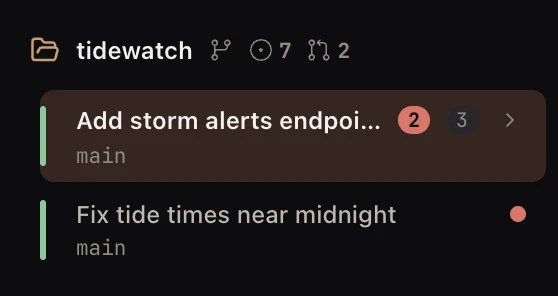
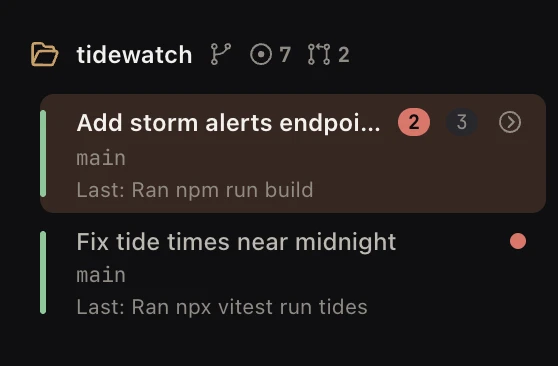
docs(site): session rows say what the agent did last, pick a page part into the session, and agent-error tabs stay (#1278)
* docs(site): session rows say what the agent did last, pick a page element into the session, tabs stay after an agent quits with an error

* docs(site): a run or tab that dies before its session starts is named apart

* docs(site): retake the sidebar and web tab screenshots

* docs(site): the last-step line shows once the agent took a step; a remote pick picture goes on the next pick

* docs(site): fix what the reviews found: History after an agent error, picture only when taken, plainer wording

* docs(site): a scheduled job's tab closes when its agent quits with an error

* docs(site): drop the tab claims a scheduled run's restart history makes unsure

diff --git a/site/sessions/index.html b/site/sessions/index.html
@@ -81,13 +81,13 @@
       <main>
         <h1 class="title">Folders and their sessions</h1>
 
-        <figure class="shot is-narrow" style="--ar: 558 / 800">
+        <figure class="shot is-narrow" style="--ar: 558 / 870">
           <div class="frame">
             <img
               src="../img/a-sidebar.webp"
               width="558"
-              height="800"
-              alt="Two folders in the sidebar: the folder tidewatch with a branch sign, 2 behind, 7 open issues and 2 open pull requests, five sessions under it with their branch names, two of them with a red dot; below it the folder harbor-site with one session"
+              height="870"
+              alt="Two folders in the sidebar: the folder tidewatch with a branch sign, 2 behind, 7 open issues and 2 open pull requests, five sessions under it with their branch names; the three open ones also say what their agent did last, like Last: Ran npm run build, and two of them have a red dot; below it the folder harbor-site with one session"
             />
           </div>
           <figcaption>
@@ -145,6 +145,15 @@
             that were running run again, with the one you were on selected; the ones that were
             asleep stay asleep until you click them; the closed ones stay closed.
           </li>
+          <li id="quit">
+            If the agent quits on its own with an error (it crashes, is killed, or fails to start),
+            its tab stays open with its last screen. The branch line under the row's title ends with
+            <code>· exited (code N)</code> or <code>· killed (signal N)</code>, and the row's tip
+            reads <code>Click to see its last screen · ⇧⌘R starts it again · ⌘W closes it</code>. If
+            it quits cleanly, as when you type <code>/exit</code>, the tab closes. All four agents
+            do this, on your Mac and on a <a href="../remote/">remote folder</a>. A tab that a
+            <a href="../scheduled/">scheduled job</a> opened may close instead.
+          </li>
         </ul>
         <p>Every row has a light on its left. The colour says what the session is doing.</p>
         <div class="typed-table" id="lights">
@@ -186,6 +195,26 @@
             </tbody>
           </table>
         </div>
+        <p id="last-step">
+          An open row can have one more short line under it, about what the agent is doing:
+        </p>
+        <ul class="dash">
+          <li>
+            while it works: the last step it took, like <code>Ran npm test</code> or
+            <code>Edited api.ts</code>
+          </li>
+          <li>
+            while it waits for your OK: what it asks, like
+            <code>Wants to run: rm -rf build</code> or <code>Asks: …</code> (if Koloft cannot tell,
+            <code>Last:</code> and its last step)
+          </li>
+          <li>once its turn is done: the last step, with <code>Last:</code> in front</li>
+          <li>when a Codex plan is ready: <code>Plan ready: implement it?</code></li>
+        </ul>
+        <p>
+          Before the agent has done or asked anything, there is no such line. Claude, Codex, Muse
+          and Antigravity all do this, on your Mac and on a <a href="../remote/">remote folder</a>.
+        </p>
 
         <h2 id="red-dots">Red dots</h2>
         <ul class="dash">
@@ -223,12 +252,12 @@
         </ul>
 
         <h2 id="keep-running">Keep running</h2>
-        <figure class="shot is-narrow" style="--ar: 554 / 578">
+        <figure class="shot is-narrow" style="--ar: 558 / 668">
           <div class="frame">
             <img
               src="../img/p-keep-running.webp"
-              width="554"
-              height="578"
+              width="558"
+              height="668"
               loading="lazy"
               alt="The tidewatch sessions; the row Fix tide times near midnight has a small pin before its name"
             />
@@ -430,12 +459,12 @@
           thin line down its left. A session that one of those starts hangs one level deeper. The
           row is there from the moment it reads Starting….
         </p>
-        <figure class="shot is-narrow" style="--ar: 558 / 578">
+        <figure class="shot is-narrow" style="--ar: 558 / 722">
           <div class="frame">
             <img
               src="../img/v-session-tree.webp"
               width="558"
-              height="578"
+              height="722"
               loading="lazy"
               alt="The folder tidewatch: the session Add storm alerts endpoint with two sessions set in under it, Update the API docs and Write the storm alert tests, and under the second of those, one level deeper, Check the test fixtures; below them all, Fix tide times near midnight on its own"
             />
@@ -448,12 +477,12 @@
           <a href="#red-dots">folded folder</a> does, and a grey count of all the hidden ones. Click
           the arrow again to see them.
         </p>
-        <figure class="shot is-narrow" style="--ar: 558 / 296">
+        <figure class="shot is-narrow" style="--ar: 558 / 366">
           <div class="frame">
             <img
               src="../img/v-session-tree-folded.webp"
               width="558"
-              height="296"
+              height="366"
               loading="lazy"
               alt="The same folder with Add storm alerts endpoint folded: a red 2 and a grey 3 at the right of its name, and the arrow now points right"
             />
@@ -512,7 +541,8 @@
           <li>
             New session <kbd>⌘N</kbd> — or, with more than one agent installed and on in Settings ▸
             Sessions, one line per agent (New Claude session, New Codex session, …), the default one
-            first with <kbd>⌘N</kbd>
+            first with <kbd>⌘N</kbd>. An agent with no account Koloft can use is greyed out there
+            (see <a href="../accounts/#no-account">accounts</a>).
           </li>
           <li>New worktree session… <kbd>⇧⌘N</kbd> <span class="why">(in a git folder)</span></li>
           <li>
@@ -526,12 +556,12 @@
         </ul>
 
         <h2>Right-click a session</h2>
-        <figure class="shot" style="--ar: 912 / 290; --w: min(456px, 100cqw)">
+        <figure class="shot" style="--ar: 916 / 444; --w: min(458px, 100cqw)">
           <div class="frame">
             <img
               src="../img/p-keep-running-menu2.webp"
-              width="912"
-              height="290"
+              width="916"
+              height="444"
               loading="lazy"
               alt="The row Add storm alerts endpoint with its right-click menu open: Reveal in Finder, Copy session ID, Keep running, Close"
             />
@@ -549,6 +579,13 @@
           <li>
             Close <span class="why">(on a running row)</span>, or Remove from list
             <span class="why">(on a closed row)</span>
+          </li>
+          <li>
+            Start again <kbd>⇧⌘R</kbd> and Close <kbd>⌘W</kbd>
+            <span class="why"
+              >(on a row whose agent <a href="#quit">quit on its own</a>, the menu has only these
+              two)</span
+            >
           </li>
         </ul>
 

diff --git a/site/accounts/index.html b/site/accounts/index.html
@@ -200,10 +200,13 @@
             <code>Account usage</code> panel: one part per tool, each with its accounts; Claude,
             Codex and Muse get a Pool row with two or more accounts
           </li>
-          <li>
+          <li id="no-account">
             with no account that can be used, the New session button is greyed out, and a line under
-            it says why (the same for Codex); a scheduled job does not start either. The line is one
-            of:
+            it says why (the same for Codex, Muse and Antigravity). That agent's New session in a
+            folder's right-click menu is greyed out too, and a scheduled job does not start either.
+            Resuming or restarting (<kbd>⇧⌘R</kbd>) a session of that agent shows the same words in
+            a short message, and a session that is already running keeps running. For Claude the
+            line is one of:
             <ul class="dash">
               <li>
                 <code>No Claude account yet — add one in Settings ▸ Accounts.</code> when none is
@@ -406,11 +409,14 @@
             note's title and on Discord. Other sessions still reach it by every name it has had.
           </li>
           <li>
-            When the session tab you are looking at goes away (you close it, it exits, or it
-            crashes), Koloft shows your butler, opening it if it was not open, once the butler is
-            set up. Closing the butler's own tab does not open it again; Koloft shows the newest
-            open tab. A new session that ends before it ever started (you answer "No, exit" to its
-            trust question, say) leaves you on its folder's page, or on the newest open tab.
+            When the session tab you are looking at goes away (you close it, or its agent quits
+            cleanly), Koloft shows your butler, opening it if it was not open, once the butler is
+            set up. A tab whose agent quits with an error can stay open (see
+            <a href="../sessions/#quit">sessions</a>). When you close it, Koloft shows your butler,
+            as long as that session had started. Closing the butler's own tab does not open it
+            again; Koloft shows the newest open tab. A new session whose agent quits cleanly before
+            the session ever started (you answer "No, exit" to Antigravity's trust question, say)
+            leaves you on its folder's page, or on the newest open tab.
           </li>
           <li>
             Like any session it goes to sleep after a quiet half hour, unless it has a Discord
@@ -497,12 +503,20 @@
           <code>answer</code> and <code>keys</code>:
         </p>
         <ul class="dash">
-          <li>Claude on your Mac gets a message at once, through its own message socket.</li>
-          <li>Codex, here or on another machine, gets it in line, when Codex is ready.</li>
-          <li>Muse and Antigravity get it typed in once their turn is over.</li>
           <li>
-            A Claude session on another machine gets it typed in once its turn has ended; the butler
-            is told it will be delivered then.
+            Claude, here or on another machine, gets a message at once, through its own message
+            socket.
+          </li>
+          <li>Codex, here or on another machine, gets it in line, when Codex is ready.</li>
+          <li>
+            Antigravity, here or on another machine, gets it through its own API (the door other
+            programs use to talk to it). A message sent while it is working waits until its turn
+            ends. If the API does not take it, Koloft types it in once the turn is over.
+          </li>
+          <li>Muse gets it typed in once its turn is over.</li>
+          <li>
+            While a Muse or Antigravity session is busy, the butler is told the message will arrive
+            when that session is ready.
           </li>
         </ul>
 

diff --git a/site/scheduled/index.html b/site/scheduled/index.html
@@ -195,11 +195,12 @@
               <tr>
                 <td>After each run…</td>
                 <td>
-                  Pick a wait, in minutes or hours. The wait starts when the last run's tab is gone
-                  (it closed itself, you closed it, or it could not start); then the next run
-                  starts. While a run is open, nothing new starts, Run now included. Saving the job
-                  or turning it on starts the wait again. It is never missed: if the wait ran out
-                  while Koloft was closed or asleep, the run starts as soon as Koloft is back.
+                  Pick a wait, in minutes or hours. The wait starts when the last run is over (it
+                  closed itself, you closed it, it could not start, or its agent quit with an
+                  error); then the next run starts. While a run is open, nothing new starts, Run now
+                  included. Saving the job or turning it on starts the wait again. It is never
+                  missed: if the wait ran out while Koloft was closed or asleep, the run starts as
+                  soon as Koloft is back.
                 </td>
               </tr>
             </tbody>
@@ -208,9 +209,11 @@
         <p>
           Picking After each run… sets When done to Close it, so each run makes room for the next by
           itself. The list says <code>waits for the open run to end</code> while a run is open. In a
-          <a href="../remote/">remote folder</a>, a run's tab can stay after the agent there stops:
-          while the link is down it keeps trying to reconnect, and after an error it waits for you
-          to press Enter. The wait starts only once that tab is gone.
+          <a href="../remote/">remote folder</a>, while the link is down a run's tab keeps trying to
+          reconnect, and the run stays open. If the agent quits with an error after the run has
+          started, the run is over at once: the wait starts, and History says
+          <code>Closed by you</code>. If the agent quits before the run starts, History says
+          <code>Could not start</code>.
         </p>
 
         <h2>Where it runs</h2>
@@ -320,6 +323,17 @@
                 <td>The run finished and is still open in the sidebar.</td>
               </tr>
               <tr>
+                <td>Done — closing</td>
+                <td>The run finished, and Close it is cleaning it up right now.</td>
+              </tr>
+              <tr>
+                <td>Done — still finishing</td>
+                <td>
+                  The run's turn is over, but work it started still runs in the background. Close it
+                  cleans up once that work is over; Koloft looks again every minute.
+                </td>
+              </tr>
+              <tr>
                 <td>Done — closed itself</td>
                 <td>The run finished and Close it cleaned it up.</td>
               </tr>
@@ -333,7 +347,8 @@
               <tr>
                 <td>Closed by you</td>
                 <td>
-                  You closed the run yourself. The line then ends with
+                  You closed the run yourself, or its agent quit with an error after the run
+                  started. The line then ends with
                   <code>· folder removed</code>, or <code>· folder kept: …</code> and what is left
                   in it.
                 </td>

diff --git a/site/workbench/index.html b/site/workbench/index.html
@@ -266,7 +266,7 @@
                 width="1322"
                 height="792"
                 loading="lazy"
-                alt="A web tab in the Workbench showing a local API docs page at localhost:4173, with an address bar and back, forward and reload buttons"
+                alt="A web tab in the Workbench showing a local API docs page at localhost:4173, with an address bar, back, forward and reload buttons, and the button that picks a part of the page"
               />
             </picture>
           </div>
@@ -276,6 +276,40 @@
             >
           </figcaption>
         </figure>
+
+        <h3 id="pick">Point the agent at one part of a page</h3>
+        <p>
+          To the right of the address field is a button. Its tip reads
+          <code>Pick an element and paste it into the session</code>. Click it and move the mouse
+          over the page: the part under the mouse lights up. Click that part (the click does not
+          reach the page). Koloft puts this in the session's input box, without sending it:
+        </p>
+        <ul class="dash">
+          <li>a first line, <code>Element picked in the Workbench browser</code></li>
+          <li>
+            the page's address and title, and the frame's address if the part sits in a frame (a
+            page inside the page)
+          </li>
+          <li>the part's name, like <code>button#buy.primary</code>, its size and where it sits</li>
+          <li>the path of a picture of it (a PNG file), when Koloft can take one</li>
+          <li>
+            its HTML, cut after 4,000 characters, and its CSS as the page really drew it: size,
+            margins, colours, font and the like
+          </li>
+        </ul>
+        <p>
+          Add what you want done and press <kbd>⏎</kbd>; your cursor is already back in the
+          terminal. To stop picking without pasting anything, press <kbd>Esc</kbd>, click the button
+          again, or click anywhere else in Koloft; picking also stops if the page goes to a new
+          address. While the session waits for your OK, has ended, or the page is not showing, the
+          button is greyed and its tip says why.
+        </p>
+        <p>
+          Every agent gets the same paste. On a <a href="../remote/">remote folder</a>, the picture
+          is copied to that machine, into <code>~/.koloft/element-picks</code>, and the paste names
+          that path. Koloft deletes each picture after about a day. On a remote machine, it deletes
+          old pictures the next time it saves a new one there.
+        </p>
 
         <h2>Terminal tabs</h2>
         <p>

diff --git a/site/features/index.html b/site/features/index.html
@@ -64,7 +64,7 @@
         <div class="kicker">Features</div>
         <h1>Everything Koloft does, <em>and where it works.</em></h1>
         <p>
-          32 features, grouped by what you are doing. Where it matters, a card says whether it works
+          33 features, grouped by what you are doing. Where it matters, a card says whether it works
           with Claude Code and Codex on your Mac, and in a remote folder over SSH. Koloft also runs
           Meta's Muse Code and Google's Antigravity CLI; the
           <a href="../sessions/">docs pages</a> say what each does for them.
@@ -220,7 +220,8 @@
             </div>
             <p>
               Breathing orange: working. Amber: waiting for your OK. Green: its turn is done. A red
-              dot means it is your move, and stays until the session works again.
+              dot means it is your move, and stays until the session works again. In the sidebar, a
+              short line under an open row says what it did last, or what it asks.
             </p>
             <ul class="kinds">
               <li class="yes">✓ Claude Code</li>
@@ -443,6 +444,25 @@
               as its source, not as a page.
             </p>
             <a class="more" href="../workbench/#web-tabs"
+              >Read more <svg class="icon" aria-hidden="true"><use href="../icons.svg#arrow" /></svg
+            ></a>
+          </article>
+          <article class="fcard">
+            <div class="ftop">
+              <svg class="icon" aria-hidden="true"><use href="../icons.svg#browser" /></svg>
+              <h3>Point at one part of a page</h3>
+            </div>
+            <p>
+              In a web tab, click the pick button, then any part of the page: its HTML, its CSS and
+              a picture of it land in the session’s input box for you to add to and send.
+            </p>
+            <ul class="kinds">
+              <li class="yes">✓ Claude Code</li>
+              <li class="yes">✓ Codex</li>
+              <li class="yes">✓ Remote</li>
+            </ul>
+
+            <a class="more" href="../workbench/#pick"
               >Read more <svg class="icon" aria-hidden="true"><use href="../icons.svg#arrow" /></svg
             ></a>
           </article>

diff --git a/site/discord/index.html b/site/discord/index.html
@@ -262,8 +262,8 @@ your Mac
           Sessions in your folders do not post to Discord. When your butler hands a session work,
           Koloft hands the session's reply back to the butler once its turn ends, and the butler
           tells you. A question from a session in one of your folders shows only at the Mac: ask
-          your butler what it is waiting on, and tell it what to pick. It reads the session's screen
-          and answers, or presses the keys, as you would at the Mac. See
+          your butler what it is waiting on, and tell it what to pick or what to say. It reads the
+          session's screen and answers, or presses the keys, as you would at the Mac. See
           <a href="../accounts/#what-it-can-do">what your butler can do</a>.
         </p>
         <p>

diff --git a/site/agents/index.html b/site/agents/index.html
@@ -213,7 +213,8 @@
           <li>
             <code>koloft session screen</code>, <code>koloft session keys</code> and
             <code>koloft session answer</code> — see what an open session's terminal shows, press
-            keys in it as you would at the Mac, or answer the question it is showing
+            keys in it as you would at the Mac, or answer the question it is showing: pick an option
+            number, say yes or no, or type your own words if the question lets you
           </li>
           <li>
             <code>koloft session command</code> — run one slash command (like <code>/compact</code>)

diff --git a/site/remote/index.html b/site/remote/index.html
@@ -218,8 +218,8 @@ your Mac                     the other machine
             its own settings once.
           </li>
           <li>
-            What the sidebar shows for a session there, its light and its title, is a few seconds
-            behind the machine.
+            For a session there, the sidebar is a few seconds behind the machine: its light, its
+            title, and the <a href="../sessions/#last-step">line that says what it did last</a>.
           </li>
           <li>
             Your <a href="../accounts/#butler">butler</a> looks after a remote folder's sessions
